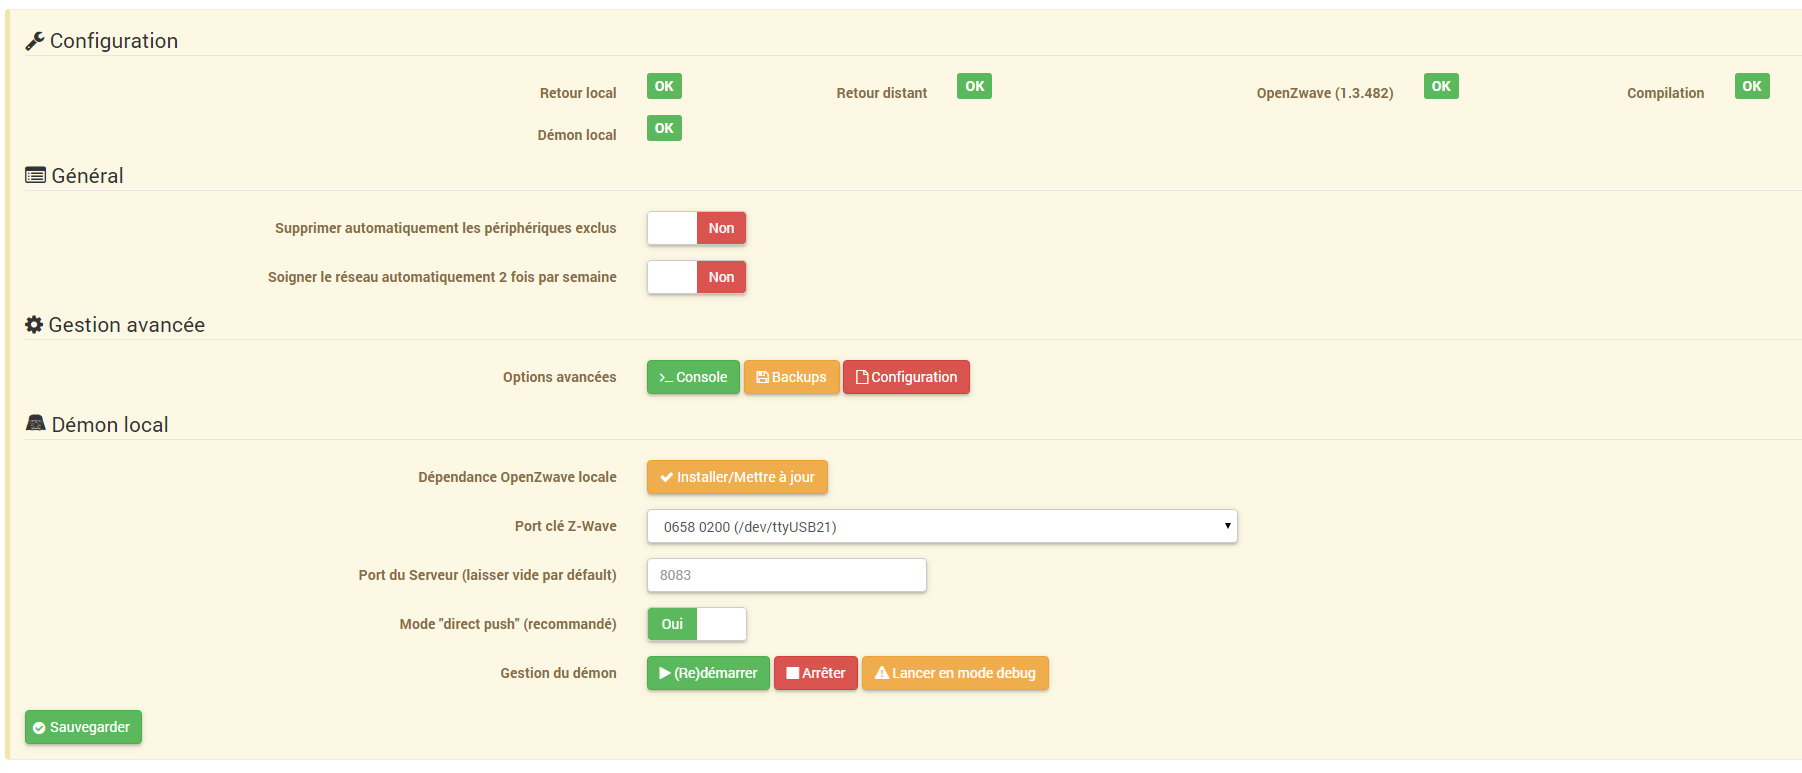
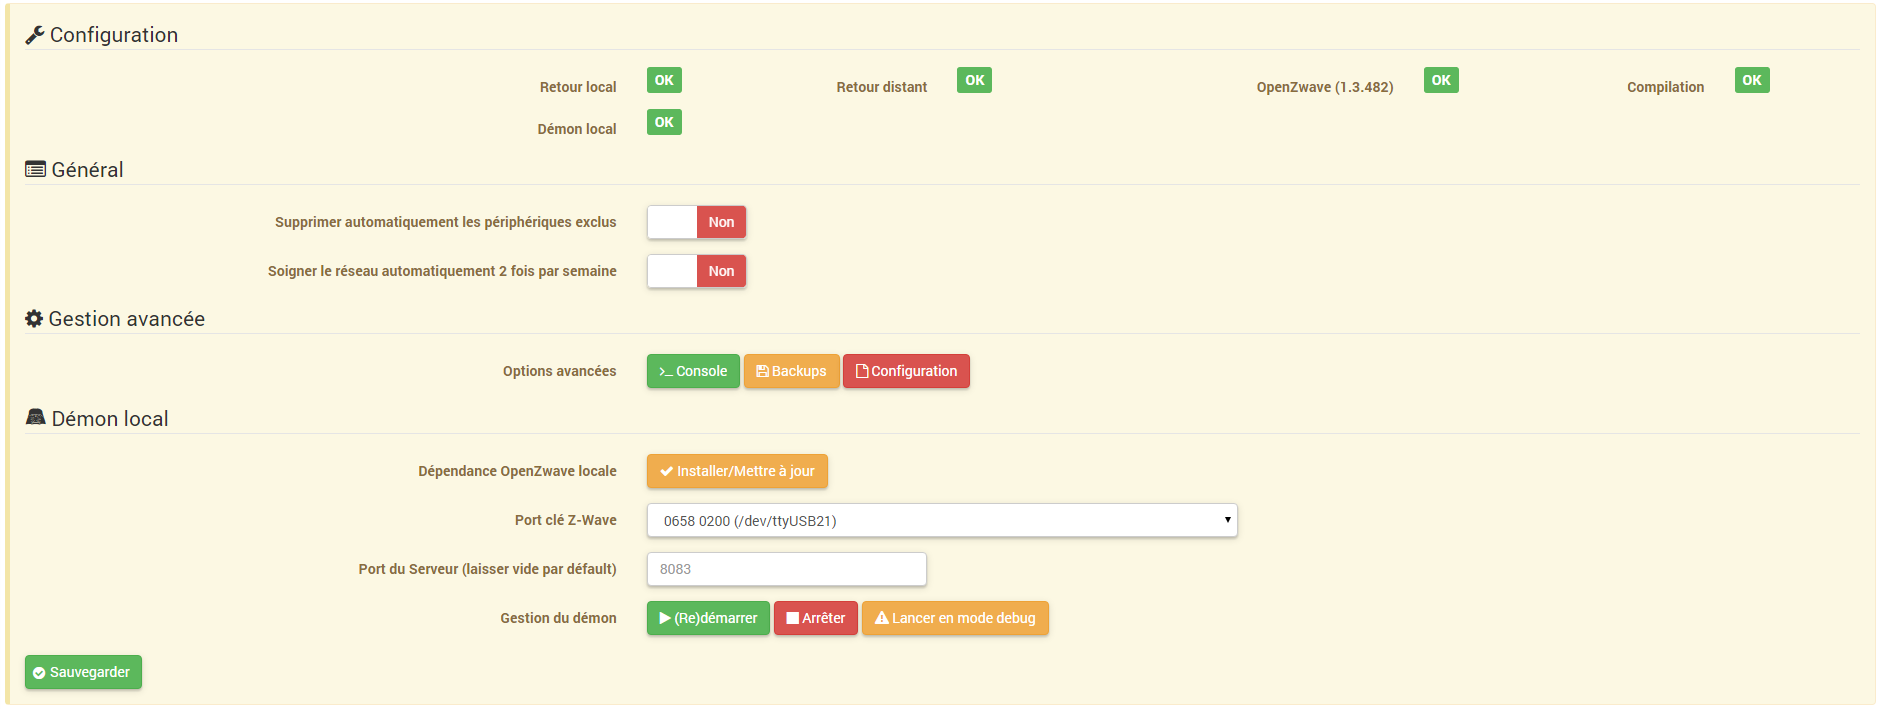
Use smart direct push (only on bool for other stack at 1s)

diff --git a/ressources/zwaveserver/openZWave.py b/ressources/zwaveserver/openZWave.py
@@ -649,120 +649,71 @@ force_refresh_nodes = []
 
 check_config_files()
 
+changes_async = {}
+changes_async['device']={}
+cycle = 1
 
-if directPush == 1 :
-    print 'Direct push mode'
-    def send_changes(changes):
-        debug_print('Send data to jeedom %s => %s' % (callback+'?apikey='+apikey,str(changes),))
+def send_changes(changes):
+    debug_print('Send data to jeedom %s => %s' % (callback+'?apikey='+apikey,str(changes),))
+    requests.post(callback+'?apikey='+apikey, json=changes,timeout= 30)
+
+def save_node_event(node_id, timestamp, value):
+    global serverId
+    global controller_state
+    changes = {}   
+    changes['controller']={}
+    changes['serverId'] = serverId
+    if value=="removed":
+        changes['controller']['excluded'] = {"value":node_id}
+    elif value=="added":
+        changes['controller']['included'] = {"value":node_id}
+        thread=threading.Thread(target=send_changes, args=(changes,))
+        thread.setDaemon(False)
+        thread.start()
+        return
+    elif value in [0,1,5] and controller_state != value :
+        controller_state = value
+        changes['controller']['state'] = {"value":value}
+    else:
+        return
+    send_changes(changes)
+
+def send_changes_async():
+    global changes_async
+    start_time = datetime.datetime.now()
+    changes = changes_async
+    changes_async = {}
+    if changes.has_key('device') :
+        debug_print('Send data async to jeedom %s => %s' % (callback+'?apikey='+apikey,str(changes),))
         requests.post(callback+'?apikey='+apikey, json=changes,timeout= 120)
+    dt = datetime.datetime.now() - start_time
+    ms = (dt.days * 24 * 60 * 60 + dt.seconds) * 1000 + dt.microseconds / 1000.0
+    timer_duration = cycle - ms
+    if(timer_duration < 0.1):
+        timer_duration = 0.1
+    resend_changes = threading.Timer(timer_duration, send_changes_async)
+    resend_changes.start() 
 
-    def save_node_event(node_id, timestamp, value):
-        global controller_state
-        changes = {}   
-        changes['controller']={}
-        changes['serverId'] = serverId
-        if value=="removed":
-            changes['controller']['excluded'] = {"value":node_id}
-        elif value=="added":
-            changes['controller']['included'] = {"value":node_id}
-            thread=threading.Thread(target=send_changes, args=(changes,))
-            thread.setDaemon(False)
-            thread.start()
-            return
-        elif value in [0,1,5] and controller_state != value :
-            controller_state = value
-            changes['controller']['state'] = {"value":value}
-        else:
-            return
-        send_changes(changes)
+send_changes_async()
 
-    def save_node_value_event(node_id, timestamp, command_class, index, typeStandard, value, instance):
+def save_node_value_event(node_id, timestamp, command_class, index, typeStandard, value, instance):
+    global serverId
+    if typeStandard == 'bool' :
         changes = {}
         changes['serverId'] = serverId
         changes['device']={}
         changes['device'][node_id]=[]
         changes['device'][node_id].append({'node_id':node_id,'instance':instance, 'CommandClass':hex(command_class), 'index':index,'value':value,'type':typeStandard,'updateTime' : timestamp})
         send_changes(changes)
-else :
-    print 'Stack push mode'
-    import sqlite3 as lite
-    cycle = 0.5
-
-    print "Check SQLite"
-    con = None
-    try:
-        con = lite.connect(":memory:", check_same_thread=False)
-        con.isolation_level = None
-        cur = con.cursor()    
-        cur.execute('SELECT SQLITE_VERSION()')
-        data = cur.fetchone()
-        print "--> SQLite version: %s" % data  
-        cur.execute("DROP TABLE IF EXISTS Events")  
-        cur.execute("CREATE TABLE IF NOT EXISTS Events(Node INT, Instance INT, Commandclass INT, Type TEXT, Id TEXT, Index_value INT, Value TEXT, Level INT, UpdateTime INT)")               
-    except lite.Error, e:
-        print "Error %s:" % e.args[0]
-        sys.exit(1)
-
-    def save_node_event(node_id, timestamp, value):
-        global con
-        cur = con.cursor()
-        #add a new cache entry for value 
-        cur.execute("INSERT INTO Events (Node, Instance, Commandclass, Type, Id, Index_value, Value, Level, Updatetime) VALUES (?, ?, ?, ?, ?, ?, ?, ?, ?)", (node_id, 0, 0, "", "", "", value, 0, timestamp))
-        
-    def save_node_value_event(node_id, timestamp, command_class, index, typeStandard, value, instance):
-        global con
-        cur = con.cursor()
-        #delete the existing cache entry, if exist
-        cur.execute("DELETE FROM Events where Node=? AND Commandclass=? AND Instance=? AND Index_value=?", (node_id, command_class, instance, index,))   
-        #add a new cache entry for value 
-        cur.execute("INSERT INTO Events (Node, Instance, Commandclass, Type, Id, Index_value, Value, Level, Updatetime) VALUES (?, ?, ?, ?, ?, ?, ?, ?, ?)", (node_id, instance, command_class, typeStandard, "", index, value, 0, timestamp))  
-
-    def get_zwave_changes():
-        global network
-        if network != None and network.state >= 5:   # STATE_STARTED 
-            if network.nodes:            
-                changes = {}   
-                changes['controller']={}
-                changes['device']={}
-                global con
-                con.row_factory = lite.Row
-                cur = con.cursor() 
-                cur.execute("SELECT * FROM Events")
-                rows = cur.fetchall()
-                cur.execute("DELETE FROM Events")
-                if (len(rows) < 1):
-                    return False 
-                for row in rows:
-                    if row["Commandclass"] == 0 and row["Value"]=="removed":
-                        changes['controller']['excluded'] = {"value":row["Node"]}
-                    elif row["Commandclass"] == 0 and row["Value"]=="added":
-                        changes['controller']['included'] = {"value":row["Node"]}
-                    elif row["Commandclass"] == 0 and row["Value"] in ["0","1","5"]:
-                        changes['controller']['state'] = {"value":int(row["Value"])}
-                    else :
-                        if row["Node"] not in changes['device']:
-                            changes['device'][row["Node"]]=[]
-                        changes['device'][row["Node"]].append({'instance':row["Instance"], 'CommandClass':hex(row["Commandclass"]), 'index':row["Index_value"],'value':row["Value"], 'type':row["Type"]})
-                return changes         
-        return False
-
-    def send_changes():
-        start_time = datetime.datetime.now()
-        changes = get_zwave_changes() 
-        if(changes != False):
-            changes['serverId'] = serverId
-            debug_print('Send data to jeedom %s => %s' % (callback+'?apikey='+apikey,str(changes),))
-            requests.post(callback+'?apikey='+apikey, json=changes,timeout= 10)
-        dt = datetime.datetime.now() - start_time
-        ms = (dt.days * 24 * 60 * 60 + dt.seconds) * 1000 + dt.microseconds / 1000.0
-        timer_duration = cycle - ms
-        if(timer_duration < 0.1):
-            timer_duration = 0.1
-        resend_changes = threading.Timer(timer_duration, send_changes)
-        resend_changes.start() 
-
-    send_changes()
-
+    else :
+        global changes_async
+        changes_async['serverId'] = serverId
+        if not changes_async.has_key('device') :
+            changes_async['device']={}
+        if not changes_async['device'].has_key(node_id) :
+            changes_async['device'][node_id]=[]
+        changes_async['device'][node_id].append({'node_id':node_id,'instance':instance, 'CommandClass':hex(command_class), 'index':index,'value':value,'type':typeStandard,'updateTime' : timestamp})
+    
 
 def network_started(network):
     add_log_entry("Openzwave network are started with homeId %0.8x." % (network.home_id,))    

diff --git a/plugin_info/configuration.php b/plugin_info/configuration.php
@@ -195,12 +195,6 @@ foreach (jeedom::getUsbMapping('', true) as $name => $value) {
 			</div>
 		</div>
 		<div class="form-group">
-			<label class="col-sm-4 control-label">{{Mode "direct push" (recommandé)}}</label>
-			<div class="col-sm-2">
-				<input type="checkbox" class="configKey bootstrapSwitch" data-l1key="directPush" />
-			</div>
-		</div>
-		<div class="form-group">
 			<label class="col-sm-4 control-label">{{Gestion du démon}}</label>
 			<div class="col-sm-8">
 				<a class="btn btn-success" id="bt_startopenZwaveDemon"><i class='fa fa-play'></i> {{(Re)démarrer}}</a>
@@ -234,12 +228,6 @@ foreach ($jeeNetwork->sendRawRequest('jeedom::getUsbMapping', array('gpio' => tr
 					<label class="col-sm-4 control-label">{{Port du Serveur (laisser vide par défault)}}</label>
 					<div class="col-sm-2">
 						<input class="slaveConfigKey form-control" data-l1key="port_server" placeholder="8083" />
-					</div>
-				</div>
-				<div class="form-group">
-					<label class="col-sm-4 control-label">{{Mode "direct push" (recommandé)}}</label>
-					<div class="col-sm-2">
-						<input type="checkbox" class="slaveConfigKey bootstrapSwitch" data-l1key="directPush" />
 					</div>
 				</div>
 				<div class="form-group">

diff --git a/core/class/openzwave.class.php b/core/class/openzwave.class.php
@@ -536,7 +536,6 @@ class openzwave extends eqLogic {
 		$cmd .= ' --callback=' . $callback;
 		$cmd .= ' --apikey=' . $apikey;
 		$cmd .= ' --serverId=' . $serverId;
-		$cmd .= ' --directPush=' . config::byKey('directPush', 'openzwave');
 
 		log::add('openzwave', 'info', 'Lancement démon openzwave : ' . $cmd);
 		$result = exec($cmd . ' >> ' . log::getPathToLog('openzwave') . ' 2>&1 &');
